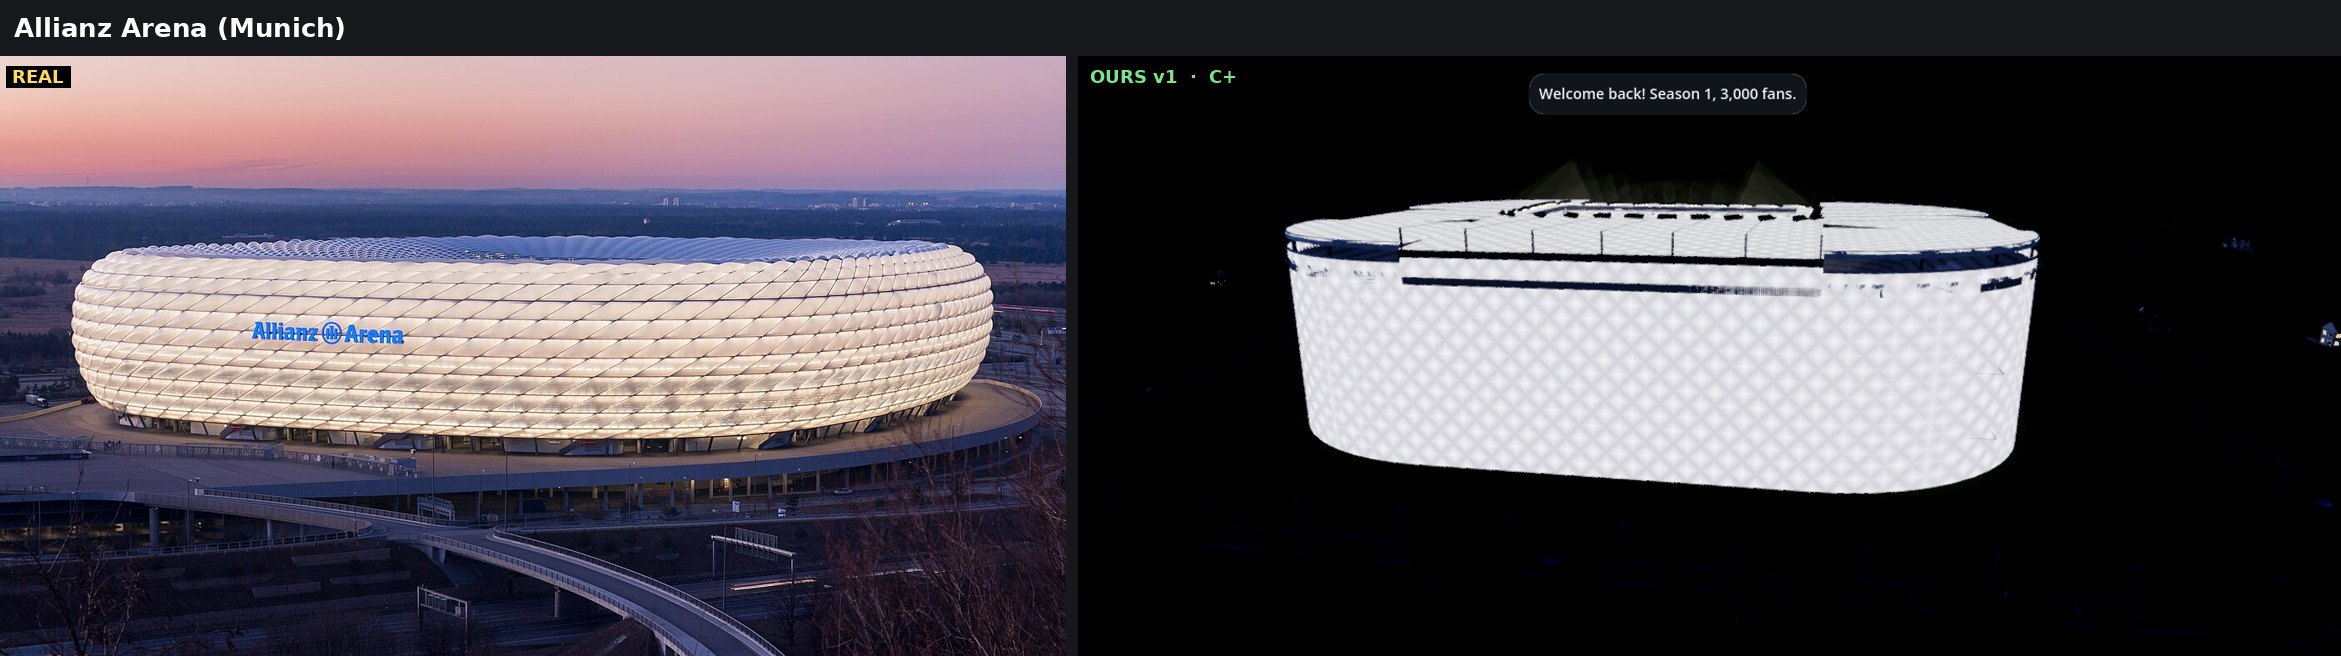
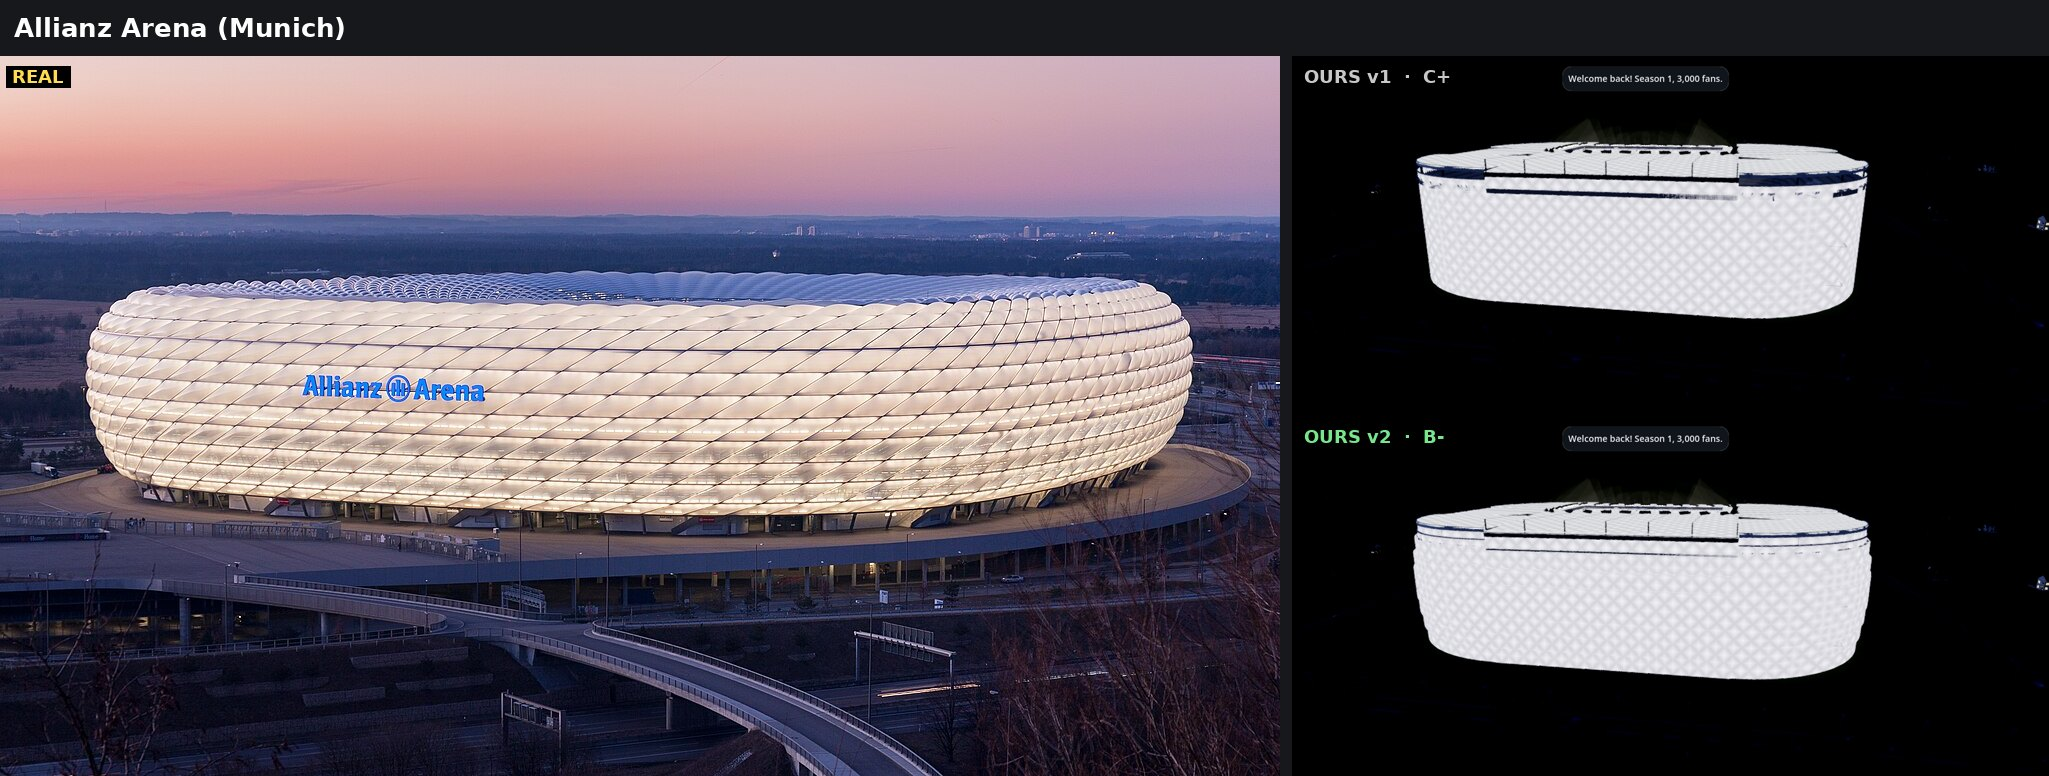
Allianz v2 with the curved skin
Claude-Session: https://claude.ai/code/session_019GL9DZKUN4T6LdW8KYydwH

diff --git a/RECREATION_CHALLENGE.md b/RECREATION_CHALLENGE.md
@@ -20,7 +20,7 @@ sides: `docs/recreation/compare/`.
 
 | Craven Cottage | B- | B- (v2, from the stands) | Classic gable roof on pillars over a low brick stand (heritage facade outside), slim masts, steep modern stand opposite, dark seats | The real Johnny Haynes roof is lower and longer with a cream fascia and the club crest on the gable; the real Riverside stand behind the camera is huge and new; we have no wooden seats; crowd density |
 
-| Allianz Arena | - | C+ (v1, at dusk) | New ETFE cushion finish: a diamond lattice of pillows glowing at night, on an oval bowl with 3-tier rounded corners and a ring roof | The real skin is one smooth inflated tyre that curves in over the top; ours is straight walls with a roof on top. The esplanade and bridge in front; a dusk sky (ours goes to full night) |
+| Allianz Arena | C+ | B- (v2) | New ETFE cushion finish: a diamond lattice of pillows glowing at night, on an oval bowl with 3-tier rounded corners and a ring roof | v2: the new curved skin bulges out and curves into the roof. Still: the bands step on the corners; the real top edge is smoother. The esplanade and bridge in front; a dusk sky (ours goes to full night) |
 
 What round 2 added to the game (all player tools, not special cases):
 A-frame and box-girder pylons with their own paint; roof ends open / closed /
